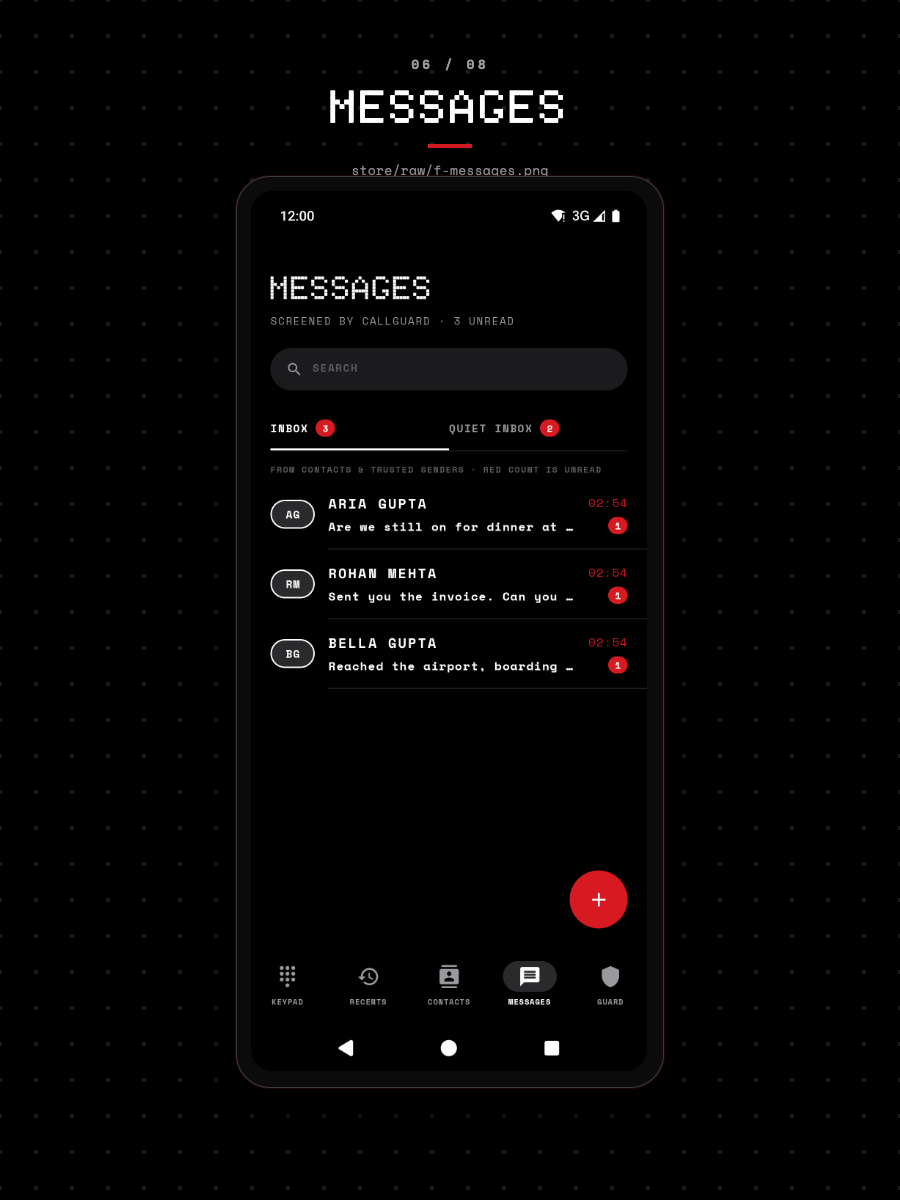
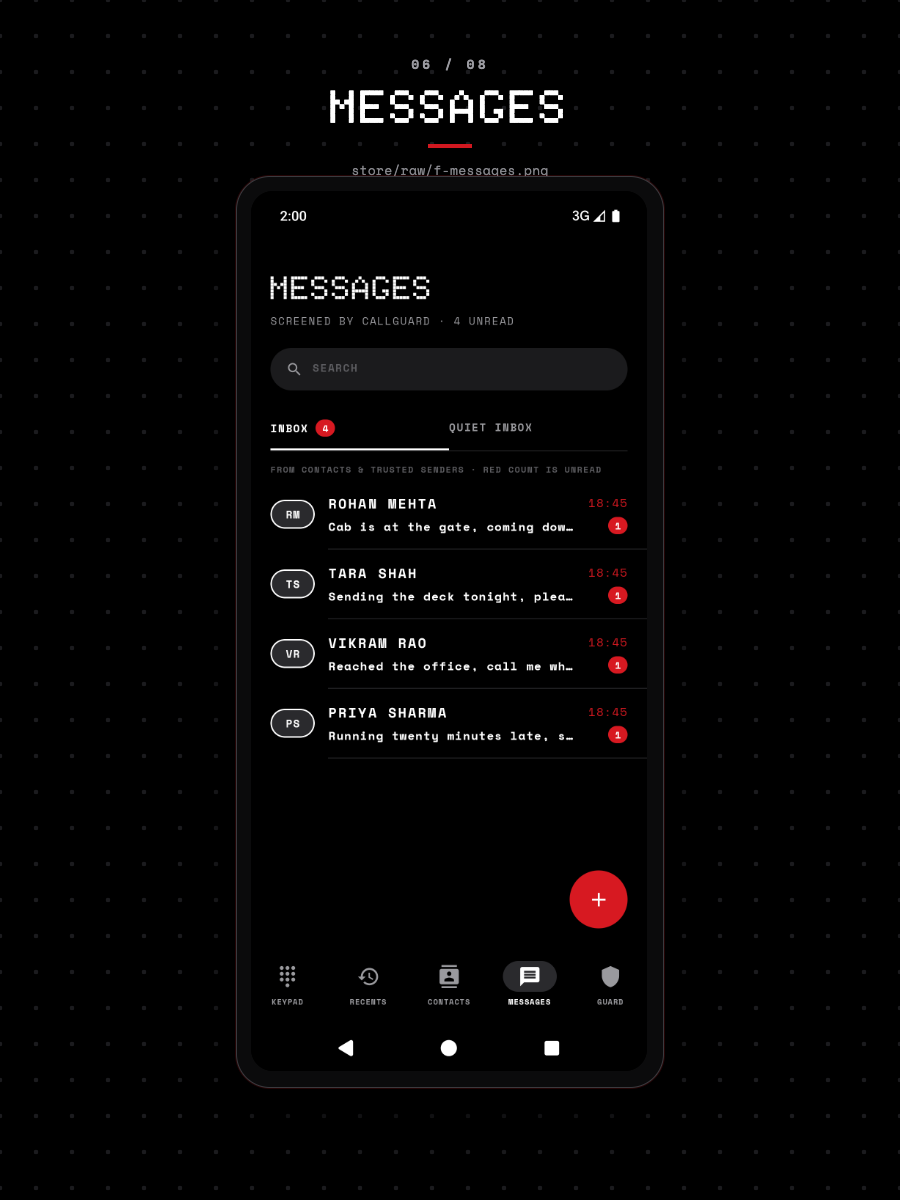
Recapture the Messages screen and wire up the documentation images (#4)
store/raw/f-messages.png was not a Messages screen. It was an Android
runtime permission dialog sitting over the launcher, and it fed both the
Play Store slide captioned "TEXTS, QUIETLY FILTERED" and the documentation
image of the same name, so the shipped graphics showed a permission prompt
where they promised a screened inbox.

The new raw capture is a direct screencap of the running app on an API 36
emulator, with the SMS role held and four threads seeded, so it shows the
real inbox: per-thread unread counts and the Inbox and Quiet Inbox tabs.
store/screenshots/05.png and docs/images/messages.png are re-rendered from
it. The handover recorded the affected slide as 06; slide-06 is captioned
"PRIVATE BY DESIGN" and uses h-active-call.png, so the defect was in 05.

Separately, the eight rendered screenshots in docs/images/ were referenced
by no page. Each is now placed next to the text it illustrates.

The detekt pin stays on the 2.0.0 alpha, and the reason is now recorded
beside the version and in CONTRIBUTING.md: the stable 1.23.x line ships a
Kotlin 2.0-era compiler that cannot parse this project's Kotlin 2.4.10
sources, and its bundled JavaVersion parser throws on JDK 25 and newer with
no backport planned. There is no stable alternative.

CHANGELOG 0.1.0 is dated for the tag that follows this merge.

diff --git a/docs/images/README.md b/docs/images/README.md
@@ -11,16 +11,17 @@ Every image is a 900x1200 canvas with the phone centred at the captures' true
 | `spam-call.png` | Incoming call flagged as spam, with spam likelihood and reasons | `store/raw/b-spam-call.png` |
 | `keypad.png` | Dial pad with a typed number and the caller lookup shown above it | `store/raw/d-keypad-who.png` |
 | `contacts.png` | Contacts list with per-contact trust state badges | `store/raw/e-contacts.png` |
-| `messages.png` | System permission dialog, "Allow CallGuard to send and receive messages?" — see note below | `store/raw/f-messages.png` |
+| `messages.png` | Messages inbox: four conversations with unread counts and the Inbox and Quiet Inbox tabs | `store/raw/f-messages.png` |
 | `settings.png` | Settings: blocking toggles and caller ID data sources | `store/raw/g-settings.png` |
 | `active-call.png` | Active call with elapsed timer and hold, mute and speaker controls | `store/raw/h-active-call.png` |
 
 ## Notes on the captures
 
-- `f-messages.png` does not show a messages list. The capture is the Android
-  runtime permission dialog over the launcher, so the shot is named after the
-  screen it was taken for but the caption on the image stays neutral.
-- All other captures were unambiguous.
+- `f-messages.png` was captured with CallGuard set as the default SMS app and
+  READ SMS granted, so it shows the conversation list rather than a permission
+  banner. The Inbox tab is selected and the Quiet Inbox was empty when the shot
+  was taken.
+- Every capture shows the screen its filename names.
 
 ## Rendering
 

diff --git a/docs/how-to/set-as-default-sms-app.md b/docs/how-to/set-as-default-sms-app.md
@@ -16,6 +16,10 @@ Accept the system prompt that names CallGuard. The row re-reads the role when th
 
 With the role, `SmsDeliverReceiver` receives each text, stores it in the Android SMS provider, writes a log entry, and notifies according to the outcome: a normal alert for a text from a contact or an allow-listed sender, a silent one when Silence mode applies, and none at all for the Quiet Inbox or a blocked sender.
 
+The Messages screen shows that split: unread counts per thread, **INBOX** for what reached you, and **QUIET INBOX** beside it for what was held back.
+
+![Messages inbox showing four conversations with unread counts, with the Inbox and Quiet Inbox tabs](../images/messages.png)
+
 Blocking texts depends on the role. Android delivers `SMS_DELIVER` to the default SMS app only, so while another app holds the role CallGuard's `SmsReceiver` only writes a log entry, and the other app shows and alerts for the message. Non-contact blocking, Ignore mode, and Silence mode therefore take effect on texts only while CallGuard is the default.
 
 Replying from a thread uses `SEND_SMS`, which the app requests the first time you send. MMS download is not implemented, so media messages are not fetched.

diff --git a/docs/how-to/set-as-default-dialer.md b/docs/how-to/set-as-default-dialer.md
@@ -14,9 +14,15 @@ Tap the **DEFAULT PHONE APP** row and accept the Android prompt that names CallG
 
 `CallGuardInCallService` starts receiving every call on the device, contacts' calls included. CallGuard then draws the in-call screen, rings, and keeps the call in progress through a foreground service.
 
+![Incoming call on the CallGuard in-call screen, showing the caller ID and the network caller name](../images/incoming-call.png)
+
 The dialer role also routes launches: `DIAL` and `tel:` links open the CallGuard keypad with the number filled in, and `DialActivity` answers `CALL tel:` and the hardware call button.
 
 One visible change costs you the caller card. While the role is held, no caller ID card and no overlay are posted for incoming calls, because the in-call screen already shows the caller. Blocked-call notices and the call log are unaffected.
+
+That in-call screen also carries the call controls:
+
+![Active call on the in-call screen, with the elapsed timer and the hold, mute and speaker controls](../images/active-call.png)
 
 ## What breaks when you revoke it
 

diff --git a/CONTRIBUTING.md b/CONTRIBUTING.md
@@ -54,6 +54,8 @@ Run the style gates before you push. ktlint fixes most formatting complaints on 
 
 detekt reads its rules from `config/detekt/detekt.yml` and its baseline from `config/detekt/baseline.xml`; both files are in the tree.
 
+The detekt pin is `2.0.0-alpha.6`, a pre-release, and that is deliberate rather than an oversight. The only stable line, 1.23.x, ships a Kotlin 2.0-era compiler and cannot parse this project's Kotlin 2.4.10 sources; its bundled copy of the IntelliJ `JavaVersion` parser also throws `IllegalArgumentException: 26.0.2.1` on JDK 25 and newer, and upstream has stated that JDK 25 support will not be backported to 1.x. The 2.0.0 alphas are the only releases that match Kotlin 2.4.10, AGP 9.3.1 and a modern JDK. Leave the exception when a Dependabot or reviewer flags it, and move to `2.0.0` once it goes final.
+
 ## Commit style
 
 - One change per commit, with a subject in the imperative mood ("Add block list export").

diff --git a/docs/explanation/caller-identity.md b/docs/explanation/caller-identity.md
@@ -71,6 +71,10 @@ Placing online lookup at rank 8 means an opt-in remote call happens only after e
 
 The caller ID card shows the name, or `UNKNOWN`, then the formatted number, the source label and the confidence, and the spam score when the number is likely spam. The Settings screen lists the same eight sources in the same order, with nothing to reorder. See the [settings reference](../reference/settings.md) for the switches on those rows.
 
+The keypad runs the same chain before you dial, above the number you typed:
+
+![Keypad with a typed number and the caller lookup shown above it](../images/keypad.png)
+
 ## Related
 
 - [Caller Identity domain specification](../blueprint/domains/caller-identity.md) for the product rules this chain implements.

diff --git a/docs/how-to/manage-lists.md b/docs/how-to/manage-lists.md
@@ -32,6 +32,10 @@ You cannot normally create that state. Adding a number to one list removes it fr
 
 An allow-listed number skips Contacts only, the spam rules, and Silence mode, for calls and texts alike. A block-listed call is rejected with no ring and no notification, and a block-listed text is marked blocked in the Quiet Inbox.
 
+The Contacts screen carries the same state per person:
+
+![Contacts list with a trust state badge on each contact](../images/contacts.png)
+
 The block list is also what the screening deadline falls back on, so a blocked number is still rejected when the full decision arrives too late. See [Tune what CallGuard blocks](../how-to/tune-blocking-rules.md).
 
 ## Verify

diff --git a/docs/tutorials/get-started.md b/docs/tutorials/get-started.md
@@ -66,6 +66,10 @@ adb shell am start -n com.callguard/.MainActivity
 Starting: Intent { cmp=com.callguard/.MainActivity }
 ```
 
+The app opens on the Guard screen:
+
+![Guard home screen with the black list, contacts scanned and calls filtered counters, and quick actions](../images/guard-home.png)
+
 ## Verify
 
 The Guard screen opens with the protection card reading **3 TO SET UP**, because the call screening role, the WhatsApp bridge, and Contacts access are all still missing on a fresh install. The bottom bar shows Keypad, Recents, Contacts, Messages, and Guard. Once CallGuard holds the dialer role it opens on the keypad instead, so expect that on a second run.

diff --git a/docs/how-to/tune-blocking-rules.md b/docs/how-to/tune-blocking-rules.md
@@ -21,6 +21,10 @@ Silence mode is the master switch for unknown callers, and it also applies to te
 
 **BLOCK SPAM** affects calls only. A text that scores 70 or more goes to the Quiet Inbox whether the toggle is on or off.
 
+A call that scores 70 or more arrives flagged, with the score's reasons alongside it:
+
+![Incoming call flagged as spam, showing the spam likelihood and the reasons behind the score](../images/spam-call.png)
+
 ## How a call is decided
 
 CallGuard applies the rules in this order and stops at the first match:

diff --git a/store/README.md b/store/README.md
@@ -25,6 +25,6 @@ Needs Google Chrome at `/Applications/Google Chrome.app`.
 - `c-guard-home.png`: Guard home.
 - `d-keypad-who.png`: keypad with a number and the Who is this card.
 - `e-contacts.png`: contacts list with the alphabet scroller.
-- `f-messages.png`: messages with the Quiet Inbox badge.
+- `f-messages.png`: messages inbox with four conversations, their unread counts, and the Inbox and Quiet Inbox tabs.
 - `g-settings.png`: settings with Contacts only on.
 - `h-active-call.png`: active call.

diff --git a/docs/reference/settings.md b/docs/reference/settings.md
@@ -10,6 +10,8 @@ All settings are one `Settings` data class (`app/src/main/java/com/callguard/pre
 
 The Settings screen is `app/src/main/java/com/callguard/ui/screens/SettingsScreen.kt`. Labels in the table below are the uppercase strings that screen renders.
 
+![Settings screen showing the blocking toggles and the caller ID data source rows](../images/settings.png)
+
 ## Settings
 
 | Label in the app | Field | Storage key | Type | Default | What it changes |

diff --git a/CHANGELOG.md b/CHANGELOG.md
@@ -6,9 +6,7 @@ The format is based on [Keep a Changelog](https://keepachangelog.com/en/1.1.0/),
 
 ## [Unreleased]
 
-## [0.1.0]
-
-<!-- VERIFY: give 0.1.0 a release date when the first `v*` tag goes out; release.yml publishes the APK from that tag. -->
+## [0.1.0] - 2026-11-06
 
 CallGuard was extracted from a monorepo, so the git history starts at the import. This entry lists the milestones of the branch the app was built on, in the order they landed.
 
